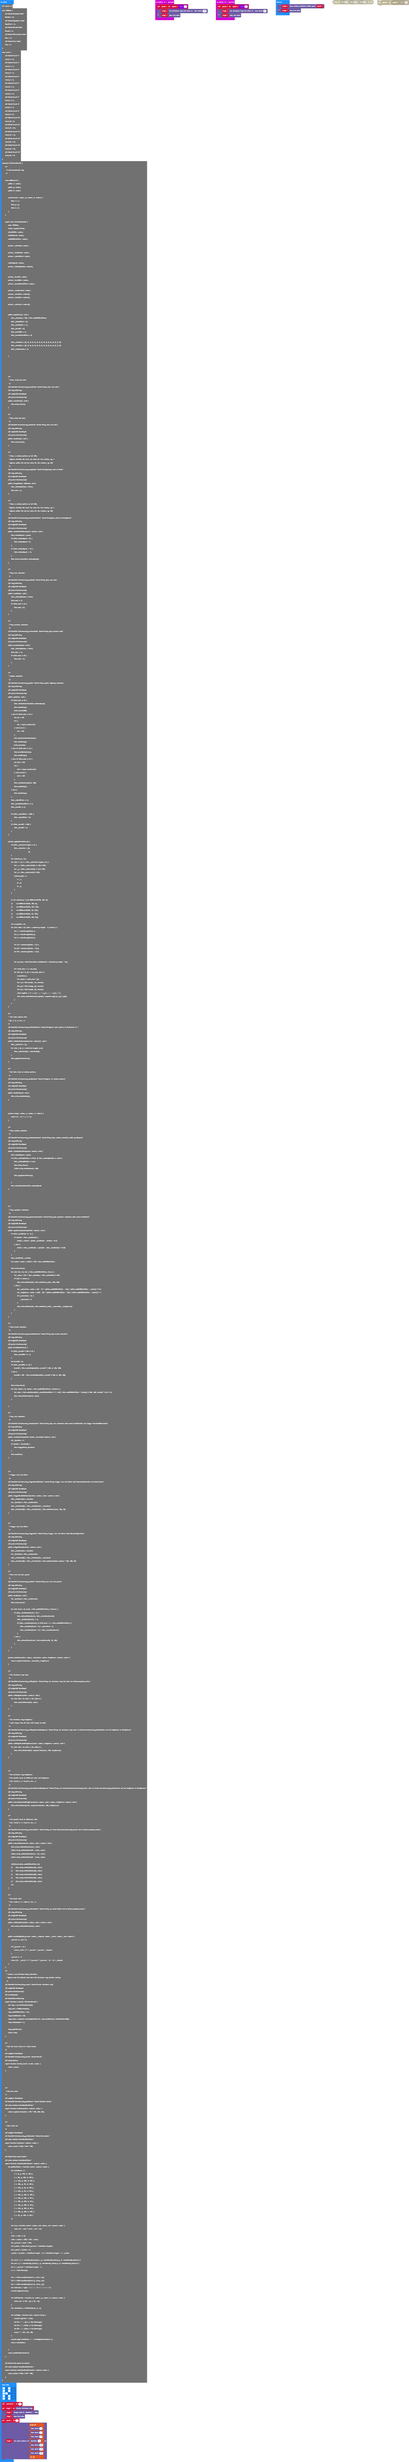
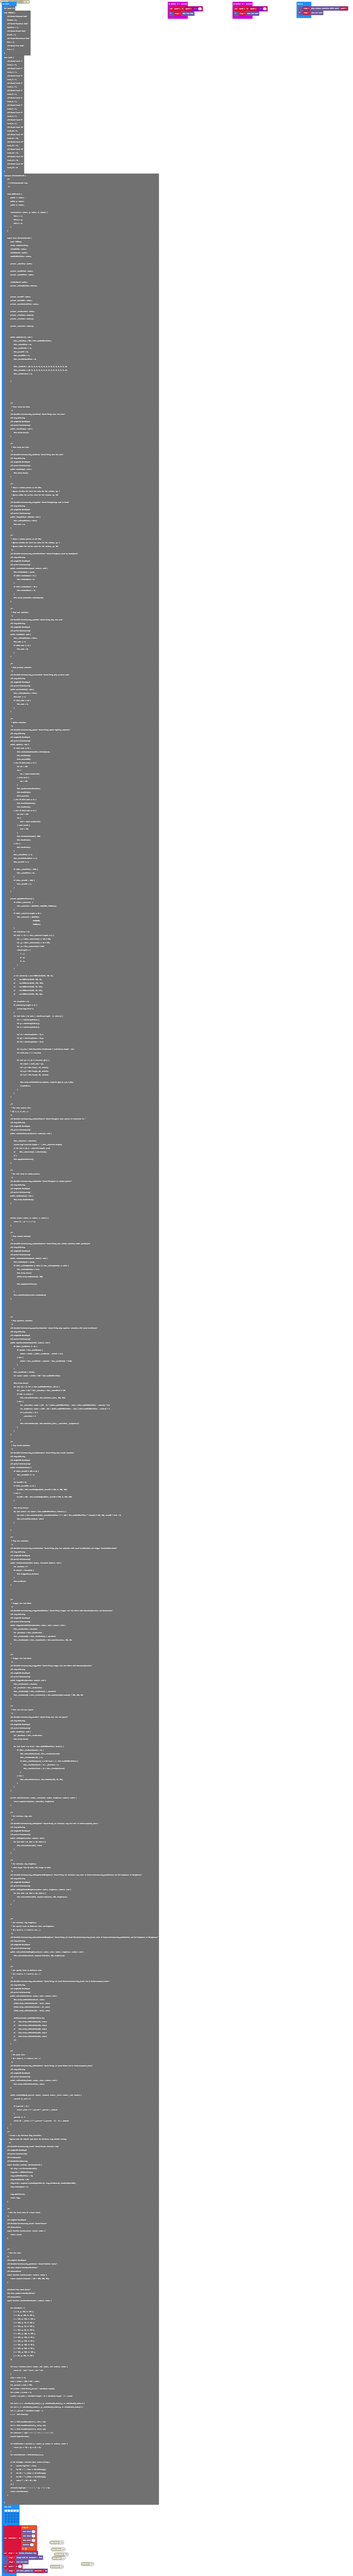
test5

diff --git a/main.ts b/main.ts
@@ -1,17 +1,3 @@
-input.onButtonPressed(Button.A, function () {
-    speed = speed + 1
-    ring2.setRingColor(ChristmasWreath.showColorWheel(255))
-    // ring2.showColor(neopixel.hsl(0, 0, 0))
-    ring2.showStrip()
-})
-input.onButtonPressed(Button.B, function () {
-    speed = speed - 1
-    ring2.setRingColor(ChristmasWreath.showColorWheel(45))
-    // ring2.showColor(neopixel.hsl(0, 0, 0))
-    ring2.showStrip()
-})
-let ring2: ChristmasWreath.ChristmasWreath = null
-let speed = 0
 enum LEDMode {
     //% block="Rainbow2 Mode"
     Rainbow = 0,
@@ -56,6 +42,9 @@ enum Level {
     //% block="Level 15"
     Level_15 = 14
 }
+
+
+//% color="#0dbb6f"
 namespace ChristmasWreath {
     /**
      * A ChristmasWreath ring
@@ -668,16 +657,16 @@ namespace ChristmasWreath {
         let u = _percent * colorWheel.length - 1.
         u = u - Math.floor(u);
 
-        let r = Math.round(lerp(start.r, end.r, u));
-        let g = Math.round(lerp(start.g, end.g, u));
-        let b = Math.round(lerp(start.b, end.b, u));
-        let colorname = 'rgb(' + r + ',' + g + ',' + b + ')';
+        let s = Math.round(lerp(start.r, end.r, u));
+        let h = Math.round(lerp(start.g, end.g, u));
+        let c = Math.round(lerp(start.b, end.b, u));
+        let colorname = 'rgb(' + s + ',' + h + ',' + c + ')';
         console.log(colorname);
 
         let fullColorHex = function (r: number, g: number, b: number): number {                
             return ((r << 16) + (g << 8) + b);
         }
-        let colorInDecimal = fullColorHex(r,g,b);
+        let colorInDecimal = fullColorHex(s,h,c);
         
         // let hexToRgb = function (hex: number):string {
         //     console.log("hex" + hex);
@@ -691,31 +680,9 @@ namespace ChristmasWreath {
     }
 
 }
-basic.showLeds(`
-    # . . . .
-    # . . . .
-    . . . . .
-    . . . . .
-    . . . . .
-    `)
 let colorList = [
-    ChristmasWreath.showColorWheel(0),
-    ChristmasWreath.showColorWheel(9),
-    ChristmasWreath.showColorWheel(43),
-    ChristmasWreath.hueColor(0),
-    ChristmasWreath.showColorWheel(180),
-    ChristmasWreath.showColorWheel(169),
-    ChristmasWreath.showColorWheel(230),
-    ChristmasWreath.showColorWheel(0),
+ChristmasWreath.showColorWheel(0),
+ChristmasWreath.showColorWheel(9),
+ChristmasWreath.showColorWheel(43),
+ChristmasWreath.hueColor(0)
 ]
-ring2 = ChristmasWreath.create()
-ring2.changeMode(LEDMode.Rainbow)
-ring2.showStrip()
-speed = 1
-ring2.setColorPattern(colorList)
-basic.forever(function () {
-    ring2.rainbowAnimation(speed)
-    // ring2.setRingColor(ChristmasWreath.showColorWheel(45))
-    // ring2.showColor(neopixel.hsl(0, 0, 0))
-    ring2.showStrip()
-})
